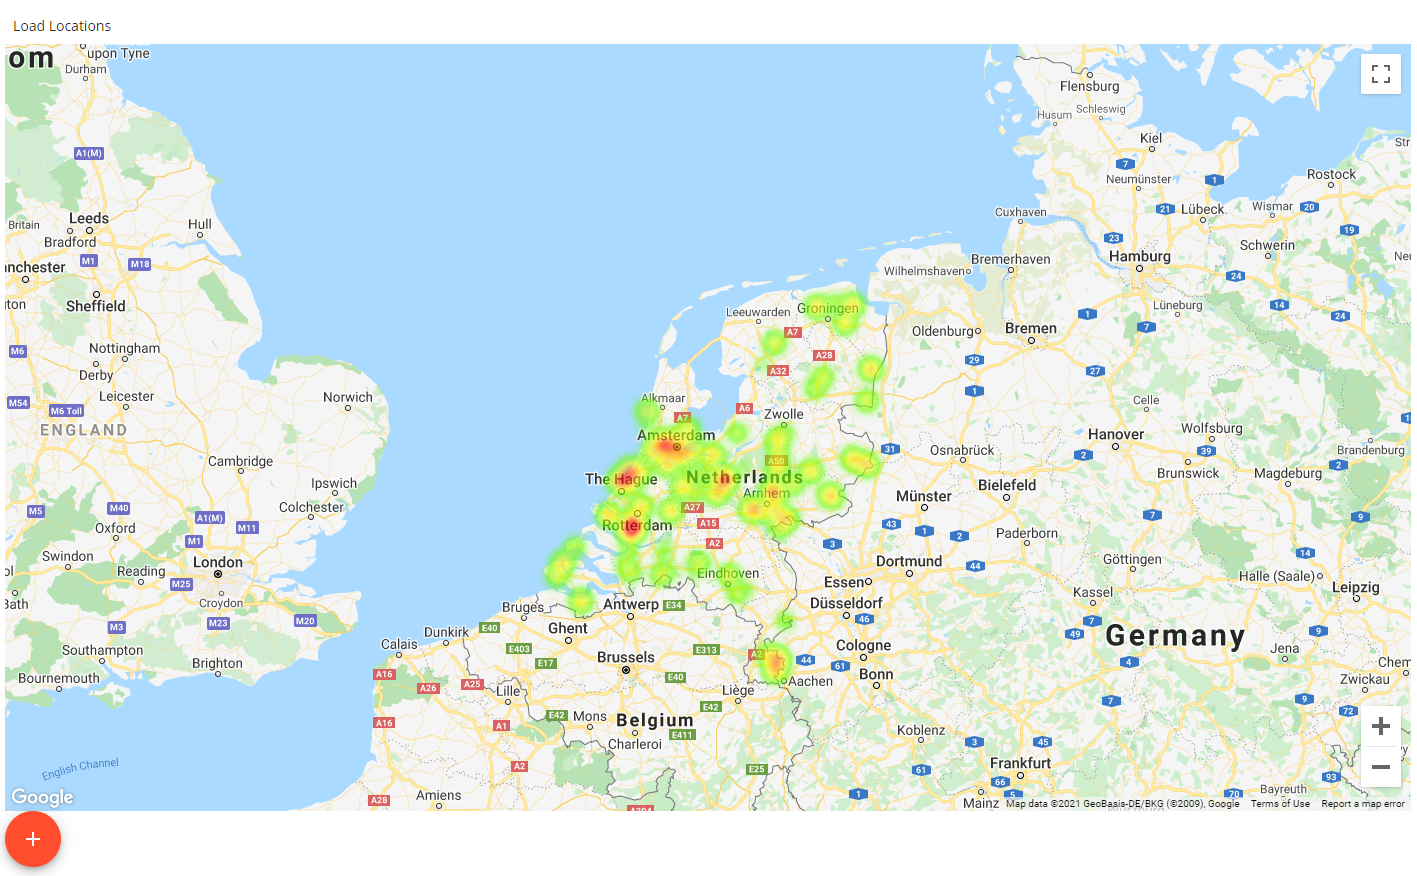
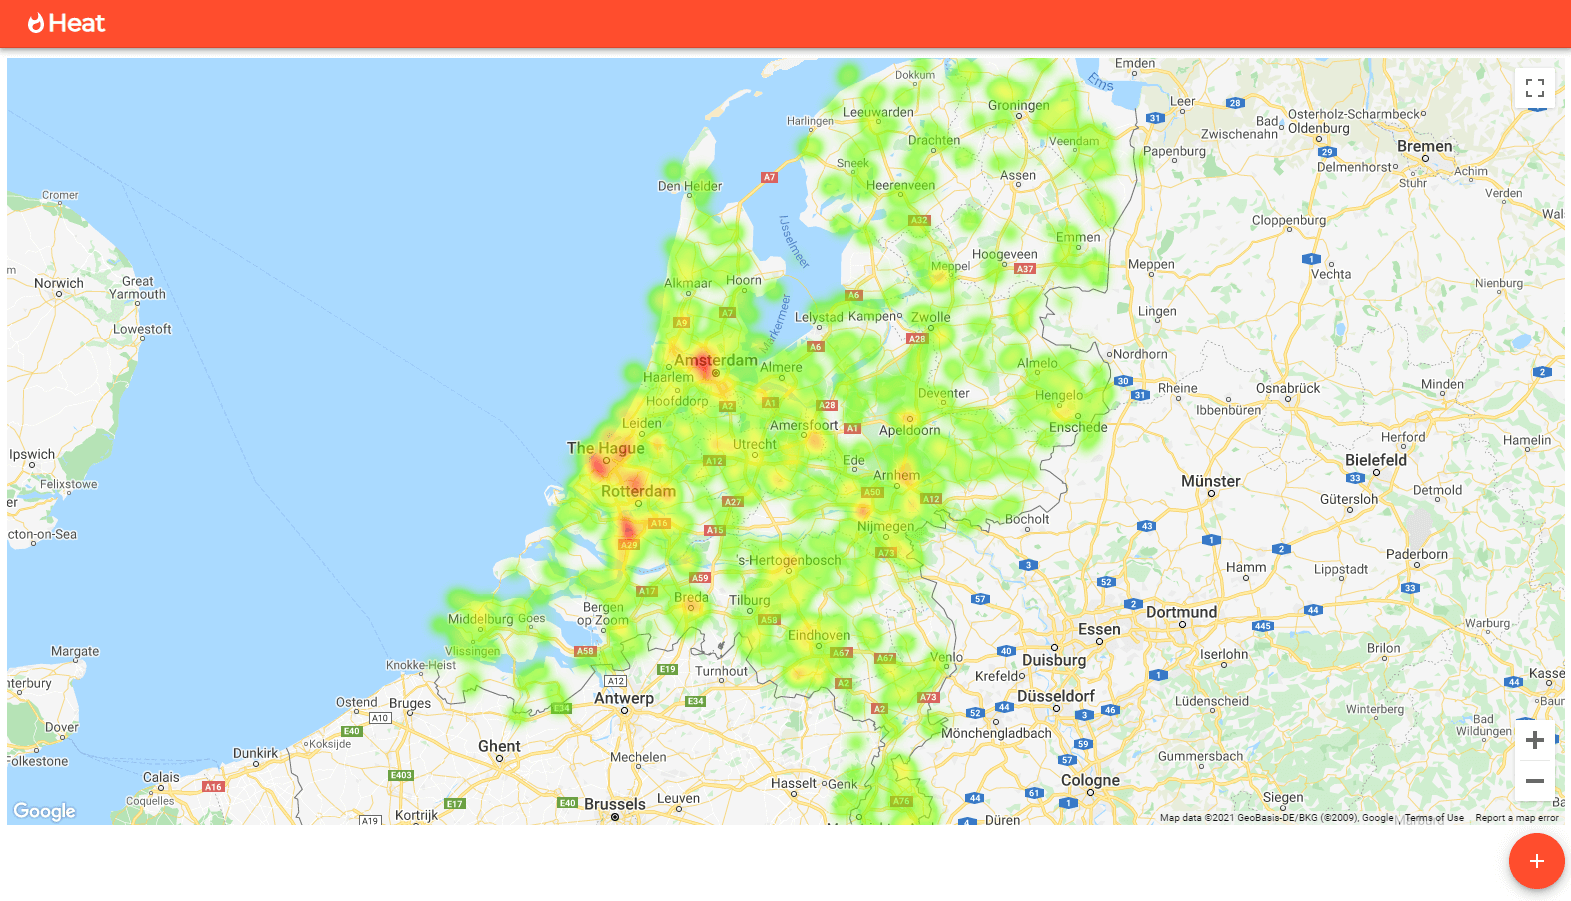
Update home and form layout

diff --git a/web/src/components/Form/Form.js b/web/src/components/Form/Form.js
@@ -1,9 +1,16 @@
 import {useCallback, useState} from 'react';
-import {Button, Drawer, makeStyles, Typography} from '@material-ui/core';
+import {makeStyles} from '@material-ui/core/styles';
+import Button from '@material-ui/core/Button';
+import Typography from '@material-ui/core/Typography';
+import Grid from '@material-ui/core/Grid';
+import Drawer from '@material-ui/core/Drawer';
+
+import residenceService from '../../services/residenceService';
 
 import {showToast} from '../StyledToast';
-import residenceService from '../../services/residenceService';
+import ButtonContainer from '../ButtonContainer';
 import Input from '../Input';
+import GridItem from '../GridItem';
 
 const useStyles = makeStyles(() => ({
   paperRoot: {
@@ -101,26 +108,27 @@ const Form = ({open, handleClose}) => {
         classes: {root: classes.paperRoot}
       }}
     >
-      <form
-        onSubmit={save}
-        style={{
-        display: 'flex',
-        flexDirection: 'column',
-        alignItems: 'center',
-        justifyContent: 'space-between'
-      }}>
-        <Typography variant="body1"
-                    component="header">
+      <form onSubmit={save} style={{margin: 16}}>
+        <Typography variant="body1" component="header">
           Add a residence
         </Typography>
 
-        {
-          inputs.map(({id, ...props}) =>
-            <Input id={id} key={id}{...props}/>
-          )
-        }
+        <Grid container
+              direction="column"
+              spacing={1}
+              justify="space-between">
+          {
+            inputs.map(({id, ...props}) =>
+              <GridItem key={id}>
+                <Input id={id} key={id} {...props}/>
+              </GridItem>
+            )
+          }
+        </Grid>
 
-        <Button variant="contained" type='submit'>Save</Button>
+        <ButtonContainer>
+          <Button color="primary" variant="contained" type="submit">Save</Button>
+        </ButtonContainer>
       </form>
     </Drawer>
 

diff --git a/web/src/components/Input/Input.js b/web/src/components/Input/Input.js
@@ -1,21 +1,21 @@
-import {TextField} from '@material-ui/core';
+import TextField from '@material-ui/core/TextField';
 
 const Input = ({value, error, setError, setValue, ...props}) => {
 
   const isValid = () => {
     if (value === '' || value === undefined) {
       setError(true);
-      return false;
     }
 
     setError(false);
-    return true;
   }
 
   return (
     <TextField value={value}
                error={error}
-               onBlur={() => isValid()}
+               onBlur={isValid}
+               autoComplete="off"
+               variant="outlined"
                {...props}
                helperText={error ? 'Required field' : undefined}
                onChange={(e) => {

diff --git a/web/src/pages/Home/Home.js b/web/src/pages/Home/Home.js
@@ -5,6 +5,7 @@ import AddIcon from '@material-ui/icons/Add';
 
 import Form from '../../components/Form';
 import MapView from '../../components/MapView';
+import ButtonContainer from '../../components/ButtonContainer';
 
 const Home = () => {
   const [formOpen, setFormOpen] = useState(false);
@@ -23,9 +24,11 @@ const Home = () => {
 
       <MapView/>
 
-      <Fab color="primary" aria-label="add" onClick={openForm}>
-        <AddIcon/>
-      </Fab>
+      <ButtonContainer>
+        <Fab color="primary" aria-label="add" onClick={openForm}>
+          <AddIcon/>
+        </Fab>
+      </ButtonContainer>
     </div>
   );
 }

diff --git a/web/src/components/GridItem/GridItem.js b/web/src/components/GridItem/GridItem.js
@@ -1,0 +1,24 @@
+import Grid from '@material-ui/core/Grid';
+import styled from 'styled-components';
+
+import {variables} from '../Theme'
+
+const StyledGrid = styled(Grid)`
+  && {
+    margin-bottom: 0.3em;
+    margin-top: 0.3em;
+    line-height: ${variables.lhSm};
+  }
+`;
+
+const GridItem = ({children}) =>
+  (
+    <StyledGrid container
+                item
+                spacing={1}
+                direction="column">
+      {children}
+    </StyledGrid>
+  )
+
+export default GridItem;

diff --git a/web/src/components/TopBar/TopBar.js b/web/src/components/TopBar/TopBar.js
@@ -1,0 +1,15 @@
+import AppBar from '@material-ui/core/AppBar';
+import Toolbar from '@material-ui/core/Toolbar';
+import Typography from '@material-ui/core/Typography';
+import Whatshot from '@material-ui/icons/Whatshot'
+
+const TopBar = () => (
+  <AppBar position="static">
+    <Toolbar variant="dense">
+      <Whatshot/>
+      <Typography variant="h5" style={{fontWeight: 'bold'}}>Heat</Typography>
+    </Toolbar>
+  </AppBar>
+);
+
+export default TopBar;

diff --git a/web/public/index.html b/web/public/index.html
@@ -15,9 +15,9 @@
     <link rel="stylesheet" href="https://fonts.googleapis.com/css?family=Montserrat|Open+Sans&display=swap"/>
     <link rel="stylesheet" href="https://fonts.googleapis.com/icon?family=Material+Icons" />
 
-    <title>Heat Map</title>
+    <title>Heat</title>
   </head>
-  <body>
+  <body style="margin: 0; padding: 0;">
     <noscript>You need to enable JavaScript to run this app.</noscript>
     <div id="root"></div>
   </body>

diff --git a/web/src/index.js b/web/src/index.js
@@ -5,12 +5,14 @@ import App from './App';
 import StyledToast from './components/StyledToast';
 import {registerAxiosInterceptors} from './services/api/interceptors';
 import {Theme} from './components/Theme';
+import TopBar from './components/TopBar';
 
 registerAxiosInterceptors();
 
 ReactDOM.render(
   <React.StrictMode>
     <Theme>
+      <TopBar/>
       <StyledToast/>
       <App/>
     </Theme>

diff --git a/web/src/components/MapView/MapView.js b/web/src/components/MapView/MapView.js
@@ -36,7 +36,7 @@ const MapView = () => {
 
   return (
     <div>
-      {showMap && <div style={{height: '85vh', width: '100%'}}>
+      {showMap && <div style={{height: '80vh', width: '100%'}}>
         <GoogleMapReact
           bootstrapURLKeys={{key: process.env.REACT_APP_MAPS_API_KEY, libraries: ['visualization']}}
           defaultCenter={{lat: 52.1326, lng: 5.2913}}

diff --git a/web/src/App.js b/web/src/App.js
@@ -1,12 +1,14 @@
+import styled from 'styled-components';
 import Home from './pages/Home';
 
-function App() {
+const Container = styled.div`
+  margin: 8px;
+`;
 
-  return (
-    <div className="App">
-      <Home/>
-    </div>
-  );
-}
+const App = () => (
+  <Container>
+    <Home/>
+  </Container>
+)
 
 export default App;

diff --git a/web/src/components/ButtonContainer/ButtonContainer.js b/web/src/components/ButtonContainer/ButtonContainer.js
@@ -1,0 +1,9 @@
+import styled from 'styled-components';
+
+const ButtonContainer = styled.div`
+  display: flex;
+  justify-content: flex-end;
+  margin-top: 8px;
+`;
+
+export default ButtonContainer;

diff --git a/web/src/components/ButtonContainer/index.js b/web/src/components/ButtonContainer/index.js
@@ -1,0 +1,1 @@
+export {default} from './ButtonContainer'

diff --git a/web/src/components/GridItem/index.js b/web/src/components/GridItem/index.js
@@ -1,0 +1,1 @@
+export {default} from './GridItem'
